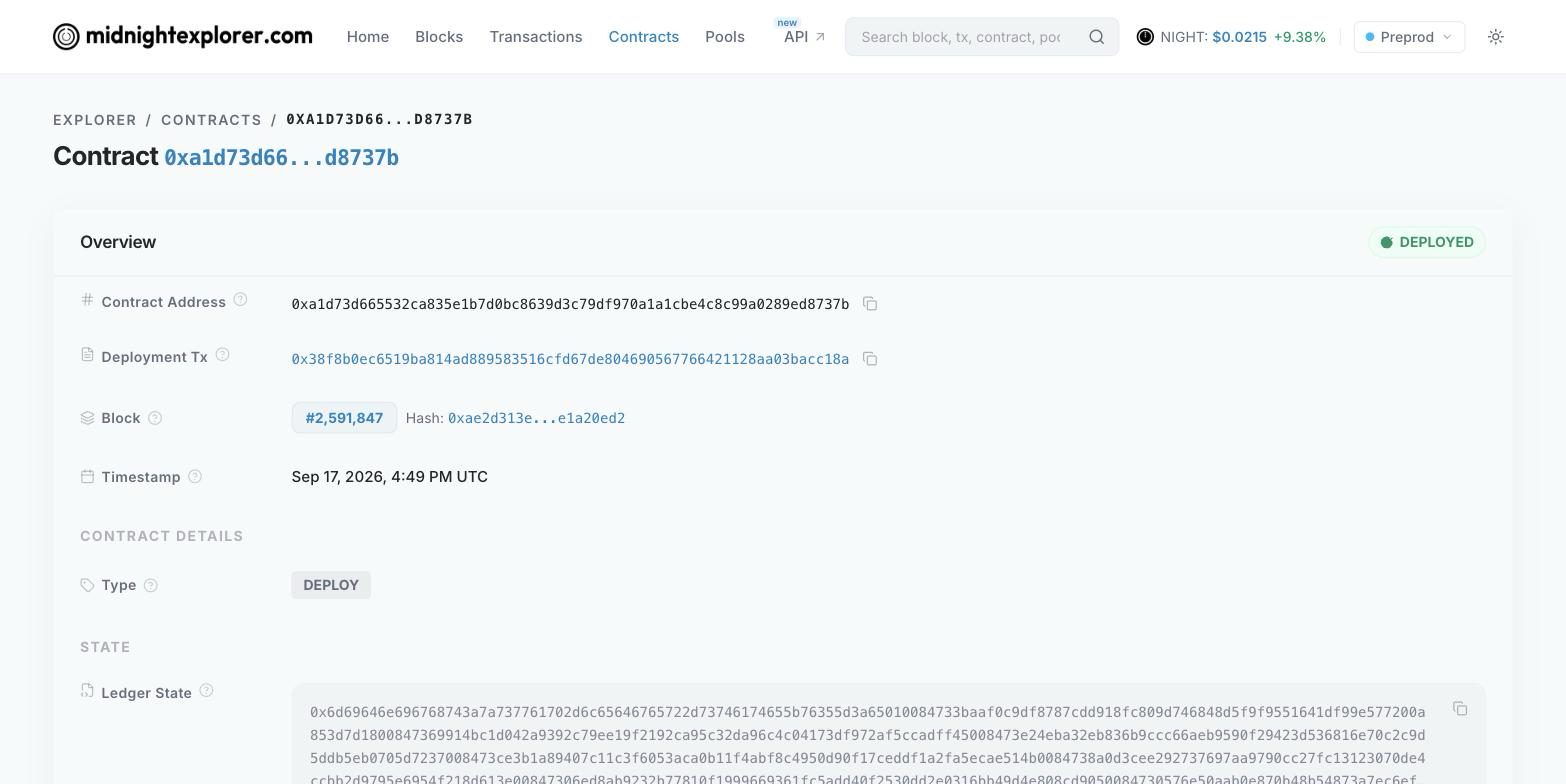
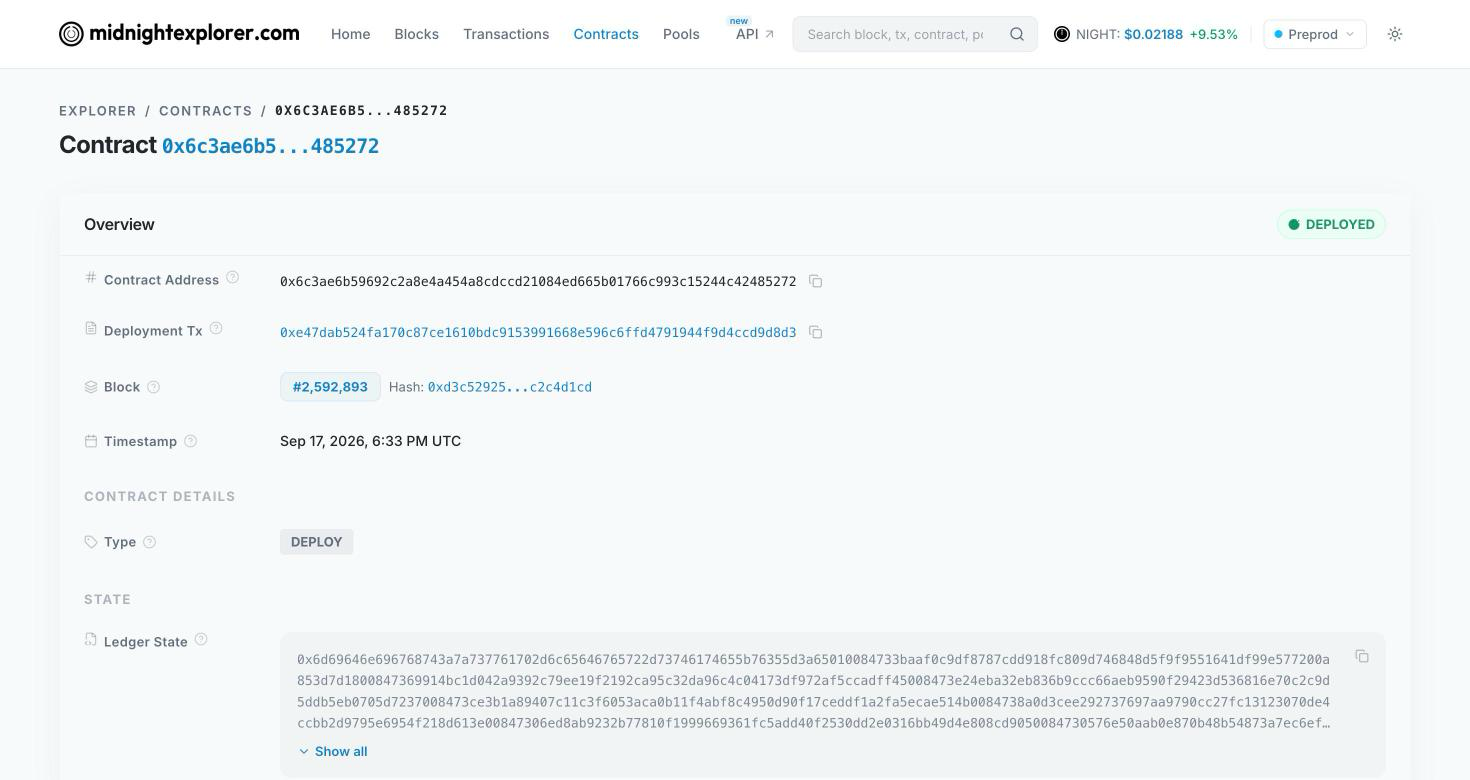
docs: point at the round deployed from the hosted demo
The CSP fix made the hosted build usable, so the round the demo walks
through is now deployed from the live site rather than from the dev server.
Its private state lives in that origin, which is what the recording needs.

Contract 6c3ae6b59692c2a8e4a454a8cdccd21084ed665b01766c993c15244c42485272,
deploy tx e47dab524fa170c87ce1610bdc9153991668e596c6ffd4791944f9d4ccd9d8d3
in block 2592893, verified as a ContractDeploy through the Preprod indexer.

diff --git a/README.md b/README.md
@@ -10,7 +10,7 @@ and the tally is publicly verifiable once it is opened.
 | -------------------- | --------------------------------------------------------------------------------------------------------------------------------------------------------------------------------------- |
 | **Live demo**        | https://aequira-ui-rho.vercel.app                                                                                                                                                       |
 | **Demo video**       | `TODO_DEMO_VIDEO_URL`                                                                                                                                                                   |
[2 lines of base64/hex data omitted]
 | **Network**          | Midnight Preprod                                                                                                                                                                        |
 | **Circuits**         | 8 (`registerReviewer`, `registerApplicant`, `openApplications`, `apply`, `openReview`, `openReveal`, `commitScore`, `revealScore`)                                                      |
 | **Tests**            | 212 (`pnpm test`)                                                                                                                                                                       |
@@ -463,7 +463,7 @@ CI runs the Compact compile and this suite on every push, as two independent job
 | Contract compiles via `compact compile`    | `pnpm compact:build`; CI `compact` job                                           |
 | Generated `managed/` present               | [`packages/contract/src/managed/`](packages/contract/src/managed) — 32 ZK assets |
 | Passing test suite                         | 212 tests, `pnpm test`; CI `verify` job                                          |
-| Deployed to Preprod with a visible address | table at the top of this file; `ContractDeploy` in block 2591847                 |
+| Deployed to Preprod with a visible address | table at the top of this file; `ContractDeploy` in block 2592893                 |
 | Public state vs private witness explained  | [Public state vs private witness](#public-state-vs-private-witness)              |
 | Initial product idea                       | [Initial product idea](#initial-product-idea)                                    |
 | Meaningful commit history                  | `git log --oneline` — well past the 5-commit minimum                             |

diff --git a/VERSIONS.md b/VERSIONS.md
@@ -59,10 +59,10 @@ provider. That smoke-test transaction was not balanced, funded, or submitted.
 
 The contract has since been deployed to Preprod for real, from the browser app
 through Lace. The current deployment is
[2 lines of base64/hex data omitted]
 transaction
[1 lines of base64/hex data omitted]
-`2591847`, which the official Preprod indexer returns as a `ContractDeploy`.
[1 lines of base64/hex data omitted]
+`2592893`, which the official Preprod indexer returns as a `ContractDeploy`.
 
 Its dependency installation reported 16 transitive vulnerabilities. AEQUIRA
 does not copy the example's lockfile or full dependency graph; dependencies will
